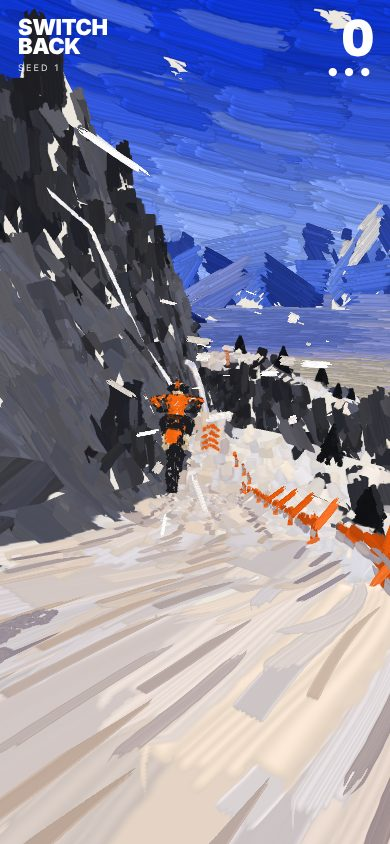
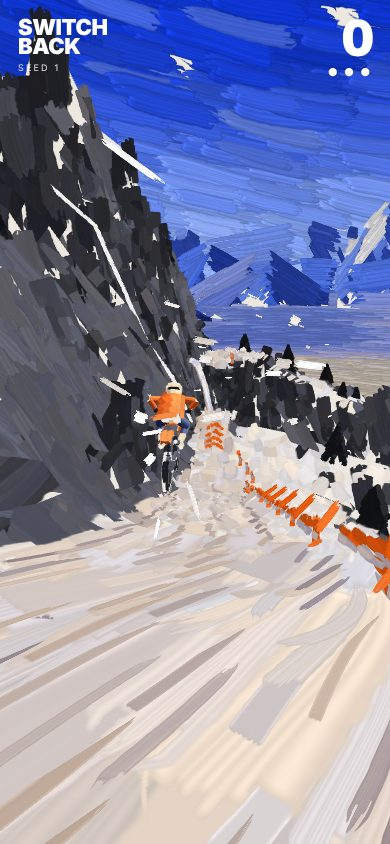
lab/switchback: the rider painted by its parts; shadow cast by them
buildRider records its parts (limbs, torso, helmet, wheels, boxes); strokes
laid with each part's form, lit per stroke in a painted palette (jacket,
denim, tyre, cream), jacket trails at speed; shadow as cast part strokes.

Claude-Session: https://claude.ai/code/session_01XxjdrEubiC3ZZ3ppUeUc93

diff --git a/cells/lab/client/switchback/paint.ts b/cells/lab/client/switchback/paint.ts
@@ -20,6 +20,7 @@
  */
 import type { Course } from './course';
 import { M, rangeProfiles, foothillProfiles, riverLine, fallPaths, flagPaths } from './mesh';
+import type { RiderPart } from './mesh';
 import { ground } from './ground';
 import { lines, plain, trackY } from './ruts';
 
@@ -539,6 +540,149 @@ export function flagStrokes(c: Course, s0: number, s1: number, t: number, eye: n
   return new Float32Array(out);
 }
 
+/** The rider painted by its parts, after the rider study: a few big loaded strokes on each part, laid with its form, on
+ * the side of it you see. The arms, legs, boots and the machine's tubes in strokes along them, a few round each; the
+ * jacket's body in strokes wrapping it on a slant, as the study's back is; the helmet in strokes round it, its goggle
+ * strap one dark band; each wheel a ring of strokes round its axle, turning with it; the machine's boxes (tank, fenders,
+ * seat, plates) a couple of strokes along each face you see. Each stroke lit or shaded by its own place on the part,
+ * in its material's four values (the jacket orange, the jeans denim, the tyres near-black, the helmet and boots cream).
+ * At speed the jacket trails dry strokes off behind it. */
+export function riderStrokes(parts: RiderPart[], eye: number[], sun: number[], vel: number[]): Float32Array {
+  const out: number[] = [], R = rng(9157);
+  const nrm = (v: number[]) => { const l = Math.hypot(v[0], v[1], v[2]) || 1; return [v[0] / l, v[1] / l, v[2] / l]; };
+  const sub = (a: number[], b: number[]) => [a[0] - b[0], a[1] - b[1], a[2] - b[2]], add = (a: number[], b: number[], k = 1) => [a[0] + b[0] * k, a[1] + b[1] * k, a[2] + b[2] * k];
+  const dot = (a: number[], b: number[]) => a[0] * b[0] + a[1] * b[1] + a[2] * b[2], crs = (a: number[], b: number[]) => [a[1] * b[2] - a[2] * b[1], a[2] * b[0] - a[0] * b[2], a[0] * b[1] - a[1] * b[0]];
+  const band = (n: number[], lift = 0) => { const l = dot(n, sun) + lift; return l > 0.5 ? 0 : l > 0.1 ? 1 : l > -0.3 ? 2 : 3; };
+  const speed = Math.hypot(vel[0], vel[1], vel[2]), back = speed > 1e-3 ? [-vel[0] / speed, -vel[1] / speed, -vel[2] / speed] : [0, 0, 0];
+  const put = (p: number[], T: number[], L: number, n: number[], W: number, mt: number, b: number, stamp: number, bend = 0) => {
+    if (L <= 0.005 || W <= 0.005) return;
+    out.push(p[0], p[1], p[2], mt + 0.5, T[0], T[1], T[2], L, n[0], n[1], n[2], W, R(), stamp, bend, 3, NEVER, 10 + b, 1, 0);
+  };
+  const LOADED = [9, 0, 1, 9, 13];
+  const matOf = (p: RiderPart) => {
+    if (p.role === 'torso' || p.role === 'arm') return M.JACKET;
+    if (p.role === 'leg') return M.DENIM;
+    if (p.role === 'boot' || p.role === 'head') return M.CREAM;
+    if (p.role === 'glove' || p.role === 'wheel') return M.TYRE;
+    const m = p.mat;
+    if (m === M.ORANGE || m === M.CUT_ORANGE) return M.JACKET;
+    if (m === M.WHITE || m === M.CREAM) return M.CREAM;
+    return M.TYRE;
+  };
+  const trail = (p: number[], W: number, mt: number, b: number, r: number) => {
+    if (speed < 6 || R() > 0.45) return;
+    const L = Math.min(1.1, speed * 0.035) * (0.6 + R() * 0.6);
+    put(add(p, back, L * 0.5 + r * 0.6), back, L, nrm(sub(eye, p)), W * 0.55, mt, b, [5, 6][Math.floor(R() * 2)]);
+  };
+  for (const p of parts) {
+    const mt = matOf(p);
+    if (p.k === 'limb') {
+      const z0 = sub(p.b, p.a), Lz = Math.hypot(z0[0], z0[1], z0[2]); if (Lz < 1e-3) continue;
+      const z = [z0[0] / Lz, z0[1] / Lz, z0[2] / Lz], mid = add(p.a, z0, 0.5), r = (p.ra + p.rb) / 2;
+      const e = nrm(sub(eye, mid)); let ep = sub(e, z.map((v) => v * dot(e, z))); if (Math.hypot(ep[0], ep[1], ep[2]) < 1e-3) ep = p.x; ep = nrm(ep);
+      const q = nrm(crs(z, ep)), reff = (rd: number[]) => r * (1 + (p.sx - 1) * Math.abs(dot(rd, p.x)));
+      const jacket = mt === M.JACKET;
+      if (p.role === 'torso') {
+        // (wrapping it on a slant, row on row from the waist to the shoulders)
+        const rows = Math.max(2, Math.round(Lz / (r * 1.1)));
+        for (let i = 0; i < rows; i++) for (const th of [-1.1, -0.35, 0.4, 1.15]) {
+          const rd = add(ep.map((v) => v * Math.cos(th)), q, Math.sin(th)), c = add(add(p.a, z0, (i + 0.5) / rows), rd, reff(rd));
+          const circ = nrm(crs(z, rd)), T = nrm(add(circ.map((v) => v * 0.85), z, 0.5)), W = (Lz / rows) * 1.5;
+          const b = band(rd); put(c, T, r * 2.0, rd, W * 0.85, mt, b, LOADED[Math.floor(R() * LOADED.length)], (R() - 0.5) * 0.3);
+          if (jacket && Math.abs(th) > 1) trail(c, W, mt, b, r);
+        }
+        continue;
+      }
+      // (along it, a few round it; a thin tube one or two)
+      const thin = r < 0.035, angs = thin ? [0] : [-1.1, -0.4, 0.35, 1.05], n = Math.max(1, Math.round(Lz / (r * (thin ? 12 : 5))));
+      for (let i = 0; i < n; i++) for (const th of angs) {
+        const rd = add(ep.map((v) => v * Math.cos(th)), q, Math.sin(th)), c = add(add(p.a, z0, (i + 0.5) / n), rd, reff(rd) * (thin ? 0 : 0.9));
+        const W = thin ? r * 2.4 : r * 1.0, b = band(rd);
+        put(c, nrm(add(z, crs(z, rd), 0.12)), (Lz / n) * 1.18, rd, W, mt, b, LOADED[Math.floor(R() * LOADED.length)], (R() - 0.5) * 0.2);
+        if (jacket && th === angs[0]) trail(c, W, mt, b, r);
+      }
+      // (and a light caught along it, where it turns to the sun)
+      if (!thin) { let sd = sub(sun, z.map((v) => v * dot(sun, z))); if (Math.hypot(sd[0], sd[1], sd[2]) > 0.1 && dot(nrm(sd), ep) > 0.1) { sd = nrm(sd); put(add(mid, sd, reff(sd) * 0.98), z, Lz * 0.85, sd, r * 0.45, mt, 0, 0); } }
+    } else if (p.k === 'wheel') {
+      // (a ring of strokes round the axle, turning with the wheel; the side you see)
+      const toE = sub(eye, p.c), n = dot(p.ax, toE) > 0 ? p.ax : p.ax.map((v) => -v);
+      const u = nrm(Math.abs(p.ax[1]) < 0.9 ? crs(p.ax, [0, 1, 0]) : crs(p.ax, [1, 0, 0])), v = crs(p.ax, u), rm = (p.ro + p.ri) / 2, N = 12;
+      for (let k = 0; k < N; k++) {
+        const a = p.spin + (k / N) * Math.PI * 2, rad = add(u.map((x) => x * Math.cos(a)), v, Math.sin(a)), T = add(u.map((x) => -x * Math.sin(a)), v, Math.cos(a));
+        const c = add(add(p.c, rad, rm), n, 0.03), b = band(nrm(add(n.map((x) => x * 0.5), rad, 0.6)));
+        put(c, T, ((Math.PI * 2 * rm) / N) * 1.6, n, (p.ro - p.ri) * 1.2, M.TYRE, b, [9, 0, 14][k % 3], 0.25);
+      }
+      // (the tread: a stroke over its rim, where it turns toward you)
+      const ee = nrm(sub(toE, p.ax.map((x) => x * dot(toE, p.ax))));
+      put(add(p.c, ee, p.ro * 0.97), crs(p.ax, ee), p.ro * 1.2, ee, p.ro * 0.35, M.TYRE, band(ee), 14);
+    } else if (p.k === 'head') {
+      // (round it, three rows over the side you see; the goggle strap a dark band round it)
+      const e = nrm(sub(eye, p.c));
+      for (const [lat, n] of [[0.55, 3], [0.15, 4], [-0.3, 3]] as [number, number][]) for (let j = 0; j < n; j++) {
+        const lon = (j - (n - 1) / 2) * 0.7;
+        let hor = nrm(sub(e, p.y.map((x) => x * dot(e, p.y)))); const side = crs(p.y, hor);
+        hor = add(hor.map((x) => x * Math.cos(lon)), side, Math.sin(lon));
+        const rd = nrm(add(hor.map((x) => x * Math.cos(lat)), p.y, Math.sin(lat))), T = nrm(crs(p.y, rd));
+        put(add(p.c, rd, p.r * 0.95), T, p.r * 1.25, rd, p.r * 0.75, M.CREAM, band(rd, 0.15), [0, 1, 9][j % 3], 0.3);
+      }
+      const hor = nrm(sub(e, p.y.map((x) => x * dot(e, p.y))));
+      put(add(add(p.c, hor, p.r * 1.0), p.y, -0.01), nrm(crs(p.y, hor)), p.r * 1.9, hor, p.r * 0.32, M.TYRE, 3, 0, 0.35);
+    } else {
+      // (a couple of strokes along each face you see)
+      for (const [f, P, Q] of [[p.X, p.Y, p.Z], [p.Y, p.Z, p.X], [p.Z, p.X, p.Y]]) for (const sg of [1, -1]) {
+        const fn = nrm(f).map((x) => x * sg), fc = add(p.c, f, sg);
+        if (dot(fn, sub(eye, fc)) <= 0) continue;
+        const lp = Math.hypot(P[0], P[1], P[2]), lq = Math.hypot(Q[0], Q[1], Q[2]), [lng, sht, ll, ls] = lp > lq ? [P, Q, lp, lq] : [Q, P, lq, lp];
+        for (const o of [-0.5, 0.5]) put(add(fc, sht, o), nrm(lng), ll * 2.2, fn, ls * 1.25, mt, band(fn), LOADED[Math.floor(R() * LOADED.length)], (R() - 0.5) * 0.2);
+      }
+    }
+  }
+  return new Float32Array(out);
+}
+
+/** The rider's shadow cast by its parts: each part thrown along the sun onto the ground (at gY) and painted there in a broad
+ * flat stroke or two (a limb along its cast, the body wide, a wheel a ring of them, the head a dab), lavender, so the
+ * shadow is the figure's shape in a few soft strokes, not a scribble over its outline and not a block */
+export function partShadowStrokes(parts: RiderPart[], sun: number[], gY: number): Float32Array {
+  const out: number[] = [], R = rng(313);
+  const cast = (p: number[]) => { const h = Math.max(0, p[1] - gY), k = h / Math.max(0.25, sun[1]); return [p[0] - sun[0] * k, gY + 0.03, p[2] - sun[2] * k]; };
+  const put = (a: number[], b: number[], W: number) => {
+    const dx = b[0] - a[0], dz = b[2] - a[2], L = Math.hypot(dx, dz);
+    const T = L > 1e-3 ? [dx / L, 0, dz / L] : [1, 0, 0];
+    out.push((a[0] + b[0]) / 2, gY + 0.03, (a[2] + b[2]) / 2, M.SHADOW + 0.5, T[0], 0, T[2], Math.max(W * 1.2, L * 1.15), 0, 1, 0, W, R(), [0, 1, 11][Math.floor(R() * 3)], 0, 0, NEVER, 10, 1, 0);
+  };
+  for (const p of parts) {
+    if (p.k === 'limb') { const w = (p.ra + p.rb) * (p.role === 'torso' ? 2.3 : 1.9); put(cast(p.a), cast(p.b), Math.max(0.1, w)); }
+    else if (p.k === 'head') { const c = cast(p.c); put([c[0] - p.r, 0, c[2]], [c[0] + p.r, 0, c[2]], p.r * 2.2); }
+    else if (p.k === 'wheel') {
+      const u = Math.abs(p.ax[1]) < 0.9 ? [p.ax[2], 0, -p.ax[0]] : [1, 0, 0], ul = Math.hypot(u[0], u[1], u[2]) || 1, uu = [u[0] / ul, 0, u[2] / ul], N = 8, rm = (p.ro + p.ri) / 2;
+      for (let k = 0; k < N; k++) {
+        const a0 = (k / N) * Math.PI * 2, a1 = ((k + 1) / N) * Math.PI * 2;
+        const q0 = [p.c[0] + uu[0] * Math.cos(a0) * rm, p.c[1] + Math.sin(a0) * rm, p.c[2] + uu[2] * Math.cos(a0) * rm], q1 = [p.c[0] + uu[0] * Math.cos(a1) * rm, p.c[1] + Math.sin(a1) * rm, p.c[2] + uu[2] * Math.cos(a1) * rm];
+        put(cast(q0), cast(q1), (p.ro - p.ri) * 1.4);
+      }
+    } else if (p.k === 'box') { const c = cast(p.c), X = cast([p.c[0] + p.Z[0], p.c[1] + p.Z[1], p.c[2] + p.Z[2]]), Y = cast([p.c[0] - p.Z[0], p.c[1] - p.Z[1], p.c[2] - p.Z[2]]); put(Y, X, Math.max(0.06, Math.hypot(p.X[0], p.X[2]) * 2.2)); void c; }
+  }
+  return new Float32Array(out);
+}
+
+/** The rider's shadow in a few broad strokes, flat and soft-edged, lavender, along its length (not a scribble of dabs
+ * over its outline) */
+export function shadowStrokes(sh: Float32Array): Float32Array {
+  const n = sh.length / 4; if (n < 3) return new Float32Array(0);
+  let mx = 0, my = 0, mz = 0; for (let i = 0; i < n; i++) { mx += sh[i * 4]; my += sh[i * 4 + 1]; mz += sh[i * 4 + 2]; } mx /= n; my /= n; mz /= n;
+  let xx = 0, xz = 0, zz = 0; for (let i = 0; i < n; i++) { const dx = sh[i * 4] - mx, dz = sh[i * 4 + 2] - mz; xx += dx * dx; xz += dx * dz; zz += dz * dz; }
+  const ang = 0.5 * Math.atan2(2 * xz, xx - zz), ux = Math.cos(ang), uz = Math.sin(ang), vx = -uz, vz = ux;
+  let a0 = Infinity, a1 = -Infinity, b0 = Infinity, b1 = -Infinity;
+  for (let i = 0; i < n; i++) { const dx = sh[i * 4] - mx, dz = sh[i * 4 + 2] - mz, a = dx * ux + dz * uz, b = dx * vx + dz * vz; a0 = Math.min(a0, a); a1 = Math.max(a1, a); b0 = Math.min(b0, b); b1 = Math.max(b1, b); }
+  const out: number[] = [], R = rng(311), L = (a1 - a0) * 0.85, Wd = b1 - b0, rows = 4;
+  for (let k = 0; k < rows; k++) {
+    const b = b0 + Wd * (k + 0.5) / rows, a = (a0 + a1) / 2 + (R() - 0.5) * L * 0.1, taper = 1 - Math.abs(k - (rows - 1) / 2) / (rows * 1.4);
+    out.push(mx + ux * a + vx * b, my + 0.02, mz + uz * a + vz * b, M.SHADOW + 0.5, ux, 0, uz, L * taper, 0, 1, 0, (Wd / rows) * 1.9, R(), [0, 1, 0, 1][k], 0, 0, NEVER, 10 + 0, 1, 0);
+  }
+  return new Float32Array(out);
+}
+
 /** The sky's strokes: level marks round the eye from the horizon up past the top, close enough to cover it, darkening as
  * they rise, a few paler. */
 export function skyStrokes(seed: number): Float32Array {
@@ -570,7 +714,7 @@ export function skyStrokes(seed: number): Float32Array {
 const SEG = 8;
 const VS = `#version 300 es
 layout(location=0) in vec2 aQ; layout(location=1) in vec4 a0; layout(location=2) in vec4 a1; layout(location=3) in vec4 a2; layout(location=4) in vec4 a3; layout(location=5) in vec4 a4;
-uniform mat4 uVP, uPrev; uniform vec3 uOff, uEye, uSun; uniform vec3 uPal[88]; uniform float uFog, uK, uMinW, uStretch, uDens, uGrow, uReveal; uniform vec2 uRes, uFront;
+uniform mat4 uVP, uPrev; uniform vec3 uOff, uEye, uSun; uniform vec3 uPal[100]; uniform float uFog, uK, uMinW, uStretch, uDens, uGrow, uReveal; uniform vec2 uRes, uFront;
 uniform vec3 uSkyLo, uSkyHi, uSkyPale, uSmear;
 out vec2 vUv; out vec3 vA; out vec3 vB; flat out float vStamp; out float vFresh; flat out float vTex;
 float h(float s, float k){ return fract(sin(s*k)*43758.5453); }

diff --git a/cells/lab/client/switchback/mesh.ts b/cells/lab/client/switchback/mesh.ts
@@ -11,7 +11,7 @@
 import { Course, JUMPS, hash } from './course';
 import { STEP, WALL, section, character, groundAt, notch } from './ground';
 
-export const M = { SNOW: 0, TRACK: 1, ROCK: 2, ORANGE: 3, BLACK: 4, WHITE: 5, MTN: 6, MTNSNOW: 7, UMBER: 8, SHADOW: 9, RUT: 10, NAVY: 11, FAR: 12, FARSNOW: 13, RIDGE: 14, FOREST: 15, VALLEY: 16, CUT_ORANGE: 17, CUT_BLACK: 18, CREAM: 19, GOUGE: 20, FIELD: 21 } as const;
+export const M = { SNOW: 0, TRACK: 1, ROCK: 2, ORANGE: 3, BLACK: 4, WHITE: 5, MTN: 6, MTNSNOW: 7, UMBER: 8, SHADOW: 9, RUT: 10, NAVY: 11, FAR: 12, FARSNOW: 13, RIDGE: 14, FOREST: 15, VALLEY: 16, CUT_ORANGE: 17, CUT_BLACK: 18, CREAM: 19, GOUGE: 20, FIELD: 21, JACKET: 22, DENIM: 23, TYRE: 24 } as const;
 /** each material's four bands, lit to unlit (the reference's own colours) */
 export const PALETTE: string[][] = [
   ['#f1ece8', '#d9d0ca', '#a399a2', '#6f6c93'], // snow
@@ -38,6 +38,11 @@ export const PALETTE: string[][] = [
   ['#f6e7c6', '#f6e7c6', '#f6e7c6', '#c7ae86'], // cream accents (boots, fork, plates, helmet), a tan cut
   ['#857c92', '#7d7590', '#6f6a86', '#5d5a78'], // a gouge's shadowed wall (`ruts=cut`): the deep shade's violet, the road's ink
   ['#d9c39c', '#b6a8cc', '#7f88d2', '#4f60c0'], // the valley's fields: ochre, lavender, blue, deep blue
+  // (the rider painted (after the rider study): its jacket orange from lit to deep shade, its jeans denim, the tyres and
+  // the machine's dark parts near-black with grey lights)
+  ['#ff9d52', '#f3712a', '#c7521b', '#8a3512'], // jacket
+  ['#7381b0', '#45527f', '#2a335c', '#171d3b'], // denim
+  ['#62646f', '#393a43', '#222329', '#131418'], // tyre and machine
 ];
 
 /** the ruts lighter than the road instead (`ruts=light`): the worn line polished, catching the light like a flash */
@@ -528,7 +533,16 @@ export interface Pose {
    * whole figure one solid charcoal (for judging its silhouette); 'facets' (or unset): every face its own band */
   style?: 'facets' | 'cut' | 'sil';
 }
-export function buildRider(r: Pose, t: number) {
+/** a part of the rider, as it's built, for painting it by its parts (not its facets): a limb (from a, radius ra, to b,
+ * rb, its section stretched sx toward x), a wheel (centre, axle, outer and inner radius, its spin), the head (centre,
+ * frame, radius), or a box (centre, half-axes); each with its material and its role in the figure */
+export type RiderPart =
+  | { k: 'limb'; a: number[]; b: number[]; ra: number; rb: number; sx: number; x: number[]; mat: number; role: string }
+  | { k: 'wheel'; c: number[]; ax: number[]; ro: number; ri: number; spin: number; mat: number; role: string }
+  | { k: 'head'; c: number[]; x: number[]; y: number[]; z: number[]; r: number; mat: number; role: string }
+  | { k: 'box'; c: number[]; X: number[]; Y: number[]; Z: number[]; mat: number; role: string };
+export function buildRider(r: Pose, t: number, parts?: RiderPart[]) {
+  let role = 'bike';
   const sil = r.style === 'sil', cut = r.style === 'cut' || sil, m = new Mesh(true, cut);
   // (the materials. As facets: the kit's own. Cut: three masses, the jersey and bodywork orange, the legs and the whole
   // machine one charcoal, a few cream accents where it touches and steers (boots, fork) and its plates and helmet)
@@ -562,6 +576,7 @@ export function buildRider(r: Pose, t: number) {
     const p = (i: number, j: number, k: number) => W(T([c[0] + i * h[0], c[1] + cp * j * h[1] - sp * k * h[2], c[2] + sp * j * h[1] + cp * k * h[2]]));
     const P = [p(-1, -1, -1), p(1, -1, -1), p(1, 1, -1), p(-1, 1, -1), p(-1, -1, 1), p(1, -1, 1), p(1, 1, 1), p(-1, 1, 1)];
     for (const [a, b, cc, d] of [[0, 1, 2, 3], [5, 4, 7, 6], [4, 0, 3, 7], [1, 5, 6, 2], [3, 2, 6, 7], [4, 5, 1, 0]]) m.quad(P[a], P[b], P[cc], P[d], mat);
+    if (parts) { const C = p(0, 0, 0); parts.push({ k: 'box', c: C, X: sub(p(1, 0, 0), C), Y: sub(p(0, 1, 0), C), Z: sub(p(0, 0, 1), C), mat, role }); }
   };
   /** a box in its own frame (axes X, Y, Z, local), centre c, half-sizes h */
   const boxF = (c: number[], X: number[], Y: number[], Z: number[], h: number[], mat: number) => {
@@ -573,6 +588,7 @@ export function buildRider(r: Pose, t: number) {
   const limb = (a: number[], b: number[], ra: number, rb: number, mat: number, n = 6, sx = 1, side = [1, 0, 0]) => {
     const z = nrm(sub(b, a)); let x = sub(side, z.map((v) => v * (side[0] * z[0] + side[1] * z[1] + side[2] * z[2])));
     if (len(x) < 1e-3) x = Math.abs(z[1]) < 0.9 ? nrm(crs([0, 1, 0], z)) : [1, 0, 0]; x = nrm(x);
+    if (parts && role !== 'skip') { const A = W(a); parts.push({ k: 'limb', a: A, b: W(b), ra: ra * K, rb: rb * K, sx, x: nrm(sub(W(add(a, x)), A)), mat, role }); }
     const y = crs(z, x);
     const ring = (c: number[], rr: number) => Array.from({ length: n }, (_, k) => { const an = (k / n) * Math.PI * 2 + Math.PI / n; return W(add(add(c, x, Math.cos(an) * rr * sx), y, Math.sin(an) * rr)); });
     const A = ring(a, ra), Bq = ring(b, rb), ca = W(a), cb = W(b);
@@ -594,15 +610,18 @@ export function buildRider(r: Pose, t: number) {
   /** a wheel: a knobbly tyre (a ring, its tread stepped), the rim inside, open between, the hub. Cut: the tyre alone, a
    * thick interrupted ring, open through the middle */
   const wheel = (c: number[], ro: number, ri0: number, w: number, T: (p: number[]) => number[]) => {
+    if (parts) { const C = W(T(c)); parts.push({ k: 'wheel', c: C, ax: nrm(sub(W(T([c[0] + 1, c[1], c[2]])), C)), ro: ro * K, ri: ri0 * K, spin, mat: BK, role: 'wheel' }); }
+    const roleWas = role; role = 'skip';
     const n = 16, ri = cut ? ri0 * 0.86 : ri0, at = (k: number, rr: number, x: number) => { const a = spin + (k / n) * Math.PI * 2; return W(T([c[0] + x, c[1] + Math.sin(a) * rr, c[2] + Math.cos(a) * rr])); };
     for (let k = 0; k < n; k++) {
       const r0 = ro * (k % 2 ? 0.95 : 1);
       m.quad(at(k, r0, -w), at(k + 1, r0, -w), at(k + 1, r0, w), at(k, r0, w), BK);
       for (const x of [-w, w]) { m.quad(at(k, r0, x), at(k + 1, r0, x), at(k + 1, ri, x), at(k, ri, x), BK); if (!cut) m.quad(at(k, ri, x * 0.7), at(k + 1, ri, x * 0.7), at(k + 1, ri * 0.86, x * 0.7), at(k, ri * 0.86, x * 0.7), M.ROCK); }
     }
-    if (cut) return;
+    if (cut) { role = roleWas; return; }
     for (let k = 0; k < 6; k++) { const a = spin * 0.5 + (k / 6) * Math.PI * 2; limb(T(c), T([c[0], c[1] + Math.sin(a) * ri * 0.86, c[2] + Math.cos(a) * ri * 0.86]), 0.006, 0.006, M.ROCK, 3); }
     limb(T([c[0] - w * 1.3, c[1], c[2]]), T([c[0] + w * 1.3, c[1], c[2]]), 0.045, 0.045, M.WHITE, 6);
+    role = roleWas;
   };
   // (the front: wheel, fork legs and stanchions to the clamps, the clamps, bars and grips, number plate, fender. Cut: the
   // fork one cream slash)
@@ -671,11 +690,11 @@ export function buildRider(r: Pose, t: number) {
       -0.62 * feetOff - 1.08 * sm + 0.1 * cs + 0.78 * heel - 0.72 * ns - 0.62 * gk];
     const ankle = add(B([side * 0.2, fr(0.8), -0.08]), Bd(kick)), hip = add(add(hipC, rgP, side * 0.12), upP, -0.03);
     const knee = ik(hip, ankle, 0.46, 0.46, Bd([side * (0.35 + 0.35 * kk * side) + 1.3 * cs - 1.2 * ns, 0.15 - feetOff * 0.6 - sm * 0.7 + 0.5 * cs + 0.8 * heel + 0.6 * ns, 1 - feetOff * 1.6 - sm * 1.9 - 0.4 * cs + 0.6 * heel - 1.6 * ns - gk * 1.4]));
-    limb(add(B([side * 0.2, fr(0.7), -0.18]), Bd(kick)), add(B([side * 0.2, fr(0.7), 0.08]), Bd(kick)), 0.06, 0.05, WH, 5); // boot
+    role = 'boot'; limb(add(B([side * 0.2, fr(0.7), -0.18]), Bd(kick)), add(B([side * 0.2, fr(0.7), 0.08]), Bd(kick)), 0.06, 0.05, WH, 5); // boot
     limb(ankle, L(ankle, knee, 0.45), 0.055, 0.06, WH, 5); // boot's leg
-    limb(L(ankle, knee, 0.4), knee, 0.058, 0.07, BK, 6); // shin
-    limb(L(knee, ankle, 0.35), add(knee, [0, 0.04, 0.03]), 0.05, 0.065, cut ? BK : OR, 5); // knee guard
-    limb(knee, hip, 0.075, 0.095, BK, 6); // thigh
+    role = 'leg'; limb(L(ankle, knee, 0.4), knee, 0.058, 0.07, BK, 6); // shin
+    role = 'skip'; limb(L(knee, ankle, 0.35), add(knee, [0, 0.04, 0.03]), 0.05, 0.065, cut ? BK : OR, 5); // knee guard
+    role = 'leg'; limb(knee, hip, 0.075, 0.095, BK, 6); // thigh
     // (arms: the shoulder to the grip; on the side the effort's on, the elbow up and out (a broad opening), on the other
     // down and in (closing); the sleeve full at the shoulder, narrowing to the elbow, the forearm to the wrist)
     const shoulder = add(add(c3, rgC, side * 0.2), upC, -0.02);
@@ -683,9 +702,12 @@ export function buildRider(r: Pose, t: number) {
     if (side > 0 && grab) grip = L(grip, B([0.1, fr(1.12), -0.58]), Math.min(1, grab)); // (the seat grab: the right hand back on the seat)
     // (compressed (a landing), the elbows go out and back, taking it, not up)
     const elbow = ik(shoulder, grip, 0.3, 0.3, [side * (1 + 0.6 * e * side) * (1 + sqz * 0.5), 0.55 + 0.6 * e * side - sqz * 0.7, -0.25 - sqz * 0.3]);
-    limb(shoulder, elbow, cut ? 0.085 : 0.07, cut ? 0.048 : 0.055, OR, 6); limb(elbow, L(elbow, grip, 0.8), cut ? 0.058 : 0.05, cut ? 0.04 : 0.045, OR, 6);
-    limb(L(elbow, grip, 0.75), grip, 0.045, 0.045, BK, 5); // glove
+    role = 'arm'; limb(shoulder, elbow, cut ? 0.085 : 0.07, cut ? 0.048 : 0.055, OR, 6); limb(elbow, L(elbow, grip, 0.8), cut ? 0.058 : 0.05, cut ? 0.04 : 0.045, OR, 6);
+    role = 'glove'; limb(L(elbow, grip, 0.75), grip, 0.045, 0.045, BK, 5); // glove
   }
+  // (the jersey, for painting, as one tapered body from the pelvis to the shoulders, the back broad)
+  role = 'torso'; if (parts) { const A = W(hipC); parts.push({ k: 'limb', a: A, b: W(c3), ra: 0.15 * K, rb: 0.2 * K, sx: 1.35, x: nrm(sub(W(add(hipC, rgC)), A)), mat: OR, role }); }
+  role = 'skip';
   if (cut) {
     // (the jersey: one shape, lofted through the pelvis, the waist (narrowest), the chest, the shoulders (broadest,
     // rounded over the top); its two parts each with their own lean and twist, so it bends between chest and pelvis)
@@ -708,6 +730,7 @@ export function buildRider(r: Pose, t: number) {
   let hx = yaw([1, 0, 0], look), hy = [0, 1, 0], hz = yaw(zf, look);
   hz = rot(hz, hx, nod); hy = rot(hy, hx, nod); hx = rot(hx, hz, hRoll); hy = rot(hy, hz, hRoll);
   const hc = add(add(c3, nrm(add(upC, [0, 0.6, 0])), 0.17), [0, 0.02, 0.12]);
+  if (parts) { const O = W([0, 0, 0]), dir = (v: number[]) => nrm(sub(W(v), O)); parts.push({ k: 'head', c: W(hc), x: dir(hx), y: dir(hy), z: dir(hz), r: 0.16 * K, mat: WH, role: 'head' }); }
   if (cut) limb(add(c3, upC, 0.02), add(hc, hy, -0.08), 0.06, 0.055, BK, 6); // the neck: one dark cut between helmet and jersey
   // (the helmet: a faceted ball, a little long front to back. Cut: cream, its one dark cut the goggles and strap as one
   // band, an orange stripe over the top)

diff --git a/cells/lab/client/switchback/render.ts b/cells/lab/client/switchback/render.ts
@@ -13,11 +13,12 @@
  */
 import { Course } from './course';
 import { CHUNK, PALETTE, buildChunk, buildFalls, buildFlags, buildRanges, buildRider, buildValley } from './mesh';
+import type { RiderPart } from './mesh';
 import type { Rider, Event } from './sim';
 import { GEARS } from './audio';
 import { buildRuts, Trail } from './ruts';
 import { buildGouges } from './gouge';
-import { STROKE, Painter, Strokes, Brush2D, strokesOver, skyStrokes, lineOf, courseStrokes, rangeStrokes, foothillStrokes, valleyStrokes, fallStrokes, flagStrokes } from './paint';
+import { STROKE, Painter, Strokes, Brush2D, strokesOver, skyStrokes, lineOf, courseStrokes, rangeStrokes, foothillStrokes, valleyStrokes, fallStrokes, flagStrokes, riderStrokes, partShadowStrokes } from './paint';
 
 const VS = `#version 300 es
 in vec4 aP; uniform mat4 uVP; uniform vec3 uOff; uniform float uZj; out vec3 vW; flat out int vM;
@@ -32,7 +33,7 @@ void main() { vec3 w = aP.xyz + uOff; vW = w - uEye; vM = int(aP.w); vT = fract(
   gl_Position.z += uZj * fract(float(gl_VertexID / 3) * .618) * gl_Position.w; }`;
 const FS = `#version 300 es
 precision highp float;
-in vec3 vW; flat in int vM; flat in float vT; uniform vec3 uPal[88]; uniform vec3 uEye; uniform vec3 uSun; uniform float uFog; uniform float uNoThings; out vec4 o;
+in vec3 vW; flat in int vM; flat in float vT; uniform vec3 uPal[100]; uniform vec3 uEye; uniform vec3 uSun; uniform float uFog; uniform float uNoThings; out vec4 o;
 void main() {
   // (painted, the things standing on the ground (the fence, the poles, the pines, a kicker's boards) claim no depth and no
   // stencil: what's behind them is painted, and their strokes over it, so a gap between their strokes shows that, not paper)
@@ -181,7 +182,8 @@ export class Renderer {
     gl.enable(gl.DEPTH_TEST); gl.disable(gl.CULL_FACE);
     gl.useProgram(this.prog);
     gl.uniformMatrix4fv(this.u.uVP, false, this.vp); gl.uniform3fv(this.u.uEye, new Float32Array(view.eye)); gl.uniform1f(this.u.uZj, this.zjit);
-    const body = this.body = buildRider({ x: r.x, y: r.y, z: r.z, heading: r.heading, pitch: r.pitch, lean: r.lean, squash: r.squash, crashT: r.crashT, air: r.air, steer: r.steer, yFront: r.yFront, yRear: r.yRear, dist: r.dist, body: r.body, whip: this.whip || r.whip, trick: r.trickOut ? r.outs : undefined, style: this.style }, t);
+    const riderParts: RiderPart[] = [];
+    const body = this.body = buildRider({ x: r.x, y: r.y, z: r.z, heading: r.heading, pitch: r.pitch, lean: r.lean, squash: r.squash, crashT: r.crashT, air: r.air, steer: r.steer, yFront: r.yFront, yRear: r.yRear, dist: r.dist, body: r.body, whip: this.whip || r.whip, trick: r.trickOut ? r.outs : undefined, style: this.style }, t, this.paint ? riderParts : undefined);
     // (the rider, cut: lit for the picture rather than by the sun, from above, behind the eye and to its left, so what
     // faces you is one flat field and only the side turned toward the eye's right (the flank, the outside of each arm and
     // leg, the undersides) takes its one cut)
@@ -244,7 +246,7 @@ export class Renderer {
       // (the ruts, the track, the flags and the falls are windows sliding along the way: their strokes seeded by place)
       // (not the gouges: they're cut to the eye, finer near it and broader away, so their faces change as you ride and
       // strokes on them couldn't hold still; the road's own strokes run along it instead)
-      const parts = [new Float32Array(0), strokesOver(trackV, 13, null, 4000, true, 0.1, true), shadowOn ? strokesOver(sh, 17, null, 4000, true, 0, true) : new Float32Array(0),  flagStrokes(this.course, r.s - 40, r.s + 320, t, view.eye, SUN), fallStrokes(this.course, r.s - 30, r.s + 420, t), strokesOver(body, 29, null, 9000, true)];
+      const parts = [new Float32Array(0), strokesOver(trackV, 13, null, 4000, true, 0.1, true), shadowOn ? partShadowStrokes(riderParts, SUN, g) : new Float32Array(0),  flagStrokes(this.course, r.s - 40, r.s + 320, t, view.eye, SUN), fallStrokes(this.course, r.s - 30, r.s + 420, t), riderStrokes(riderParts, view.eye, SUN, this.eyeV)];
       const all = new Float32Array(parts.reduce((a, p) => a + p.length, 0)); let at = 0;
       for (const p of parts) { all.set(p, at); at += p.length; }
       if (!this.moving) this.moving = pt.make(all, true); else this.moving.set(all);

diff --git a/cells/lab/static/switchback.md b/cells/lab/static/switchback.md
@@ -119,6 +119,7 @@ An experiment in drawing the mountain as paint, after looking closely at a brush
 - **Nothing pops.** A stroke whose turn to be thinned out with distance comes shrinks away rather than going at once. What's built afresh each frame keeps its strokes: the rider by its faces, the flags and the falls by where they are; the gouges aren't painted (they're cut to the eye, so their faces change as you ride), the road's own strokes running along it instead.
 - **The speed in the marks, near the eye.** Within about 14 m of the eye (gone by 30 m), at pace every stroke turns, on its own face, toward the way the eye is going and draws out by as far as the eye goes in a moment (the eye's smoothed motion in the world: one way for every stroke, so they hold steady), so the ground and the rock just round you fall into line and stream past; further off the subject alone lays each stroke (`stretch=0` none, `stretch=2` twice). Your track and the rider's shadow are laid flat, as the ground is. The shadow lies on the road ahead and behind where it falls, not on a level plane at the rider's feet (which a slope going away left standing in the air).
 - **Strokes the course calls for.** Laid deliberately from the course, not scattered over faces, each lying on the surface (its normal the surface's own there): the road's two edges in long strokes following it, the drop's lip as a lit edge of snow, and the **ruts**, the worn lines down the road as `ruts.ts` has them, a step darker than the road (the gouges, cut to the eye each frame, can't be painted; these are the same lines, fixed to the course). No wall-foot shade: those strokes spiked out of the slope rather than lying on it. The rider's shadow is painted, flat on the road where it falls.
+- **The rider, by its parts** (after the rider study). The rider's builder hands over its parts as it builds them (each limb, the jacket's body, the helmet, the wheels, the machine's boxes), and each is painted with its form, on the side you see: arms, legs, boots and tubes in strokes along them, a few round each, with a light caught along the side toward the sun; the jacket's body in a few big strokes wrapping it on a slant; the helmet in strokes round it, its goggle strap one dark band; each wheel a ring of strokes round its axle, turning with it, and its tread; the boxes (tank, fenders, seat, plates) a couple of strokes along each face you see. Each stroke lit or shaded by its own place on the part, in its material's four values: the jacket orange from lit to deep shade, the jeans denim, the tyres and the machine near-black with grey lights, helmet and boots cream (painted facet by facet, it was a flat orange silhouette over one charcoal column). At speed the jacket trails dry strokes off behind it. Its shadow is cast by its parts: each thrown along the sun onto the ground and painted there in a broad flat lavender stroke (a wheel a ring of them), the figure's shape in a few strokes.
 - **No occlusion holes.** Only the ground and the rider claim depth and the stencil. The things standing on the ground (the fence, the poles, the pines, a kicker's boards), the flags and the falls claim neither: what's behind them is painted (the ground, the ranges, the sky), and their strokes over it, so a gap between their strokes shows what's behind, never paper. In each chunk the ground's strokes and the way's are laid first, the things' after them, by order; and the things are laid with the masses' front, not the detail's, so they're there as soon as the ground they stand on is. (The rider keeps its depth: its strokes are on both sides of it, and its own depth hides its far side.)
 - **Flags.** Painted by how far off they are. Near (within about 25 m, gone by 40): strokes riding the cloth, four rows from the pole to the free end, four along each, each tied to its own place on the cloth rather than to a facet (painted facet by facet, their strokes were reshaped every frame and shimmered), so they move with the wave and hold still on it; the wave in their colour, lit or in shade as the cloth turns to the sun. Far (from about 20 m): the banner one gesture, a flick from the pole's top out along it, whipping thin, and a shorter one over it, an orange mark on a pole that reads from far ahead. Between, one fades into the other. The pole is one dark upright stroke. (Seed 1 has flags at 155, 527, 899, 1395.)
 - **Waterfalls.** Not a ribbon but strokes in several sheets, one in front of another: the back one lilac-grey and dense (the water in shadow, covering the fall), white over it, a few pale blue in front; each a run of streaks sliding down the fall's arc with the water, drawn out by how fast it's falling where it is (short at the lip, long below), growing as it comes over and shrinking as it lands; a few strokes across the lip, glassy; spray at the foot, dabs thrown up and out, growing and fading. Built each frame, every streak keeping its place in the flow, so it moves with the water rather than flickering. (`at=<station>` puts you on the line at a station, for looking at a place: seed 1 has falls at 621, 813, 1186, 1629.)
